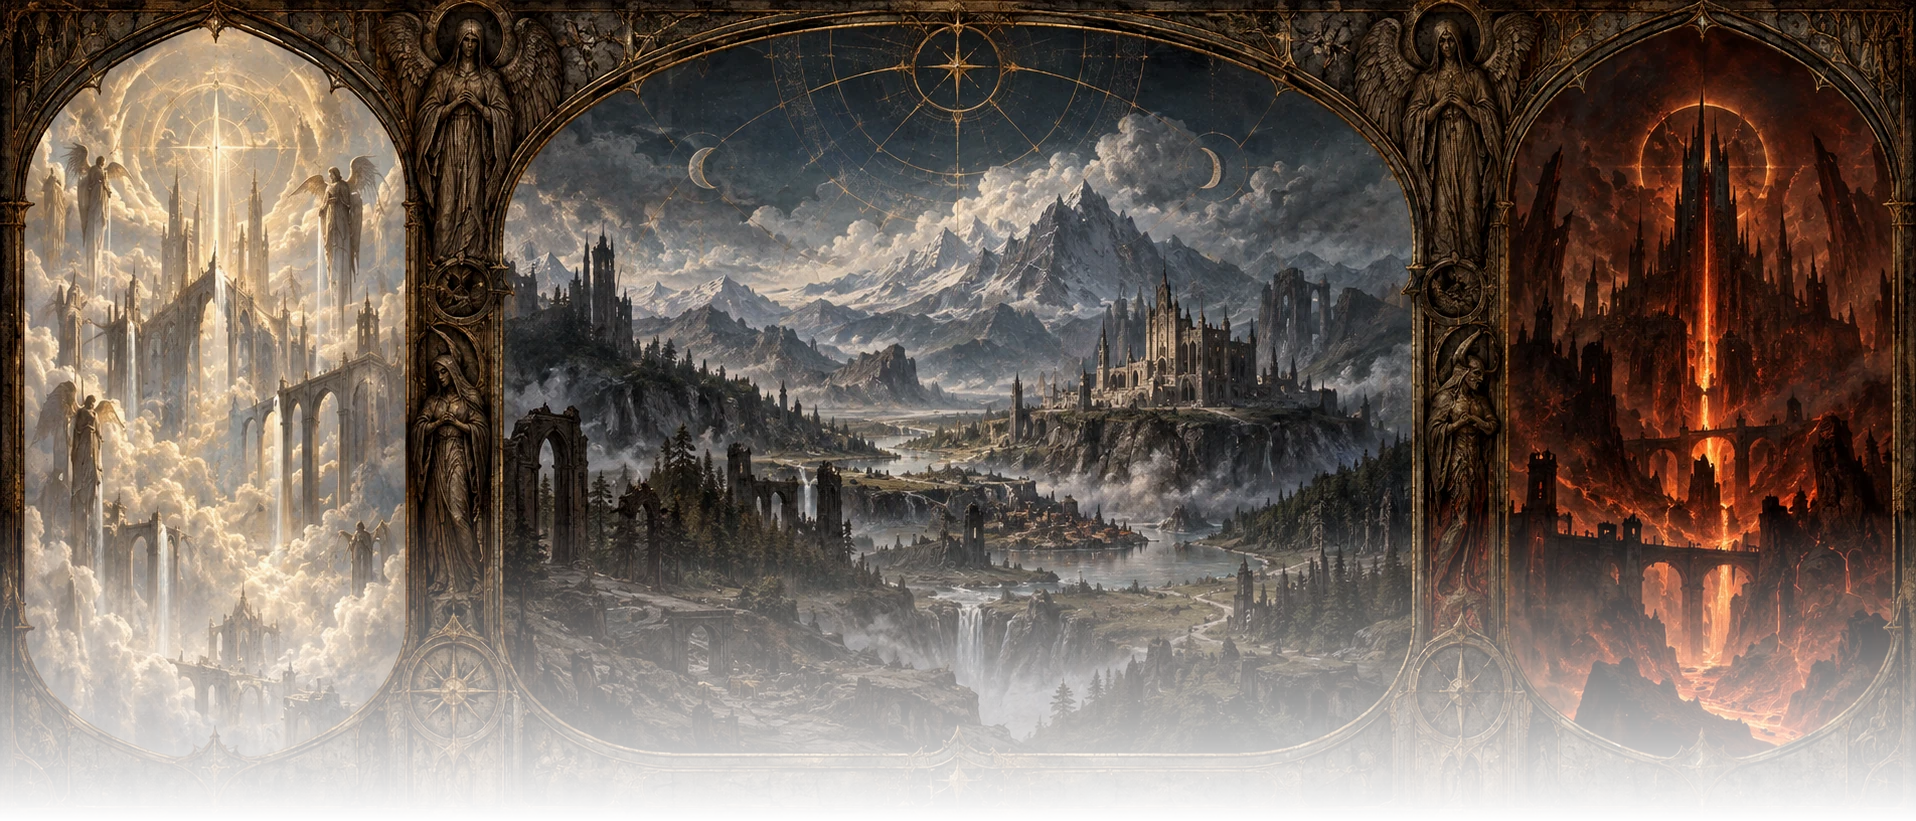
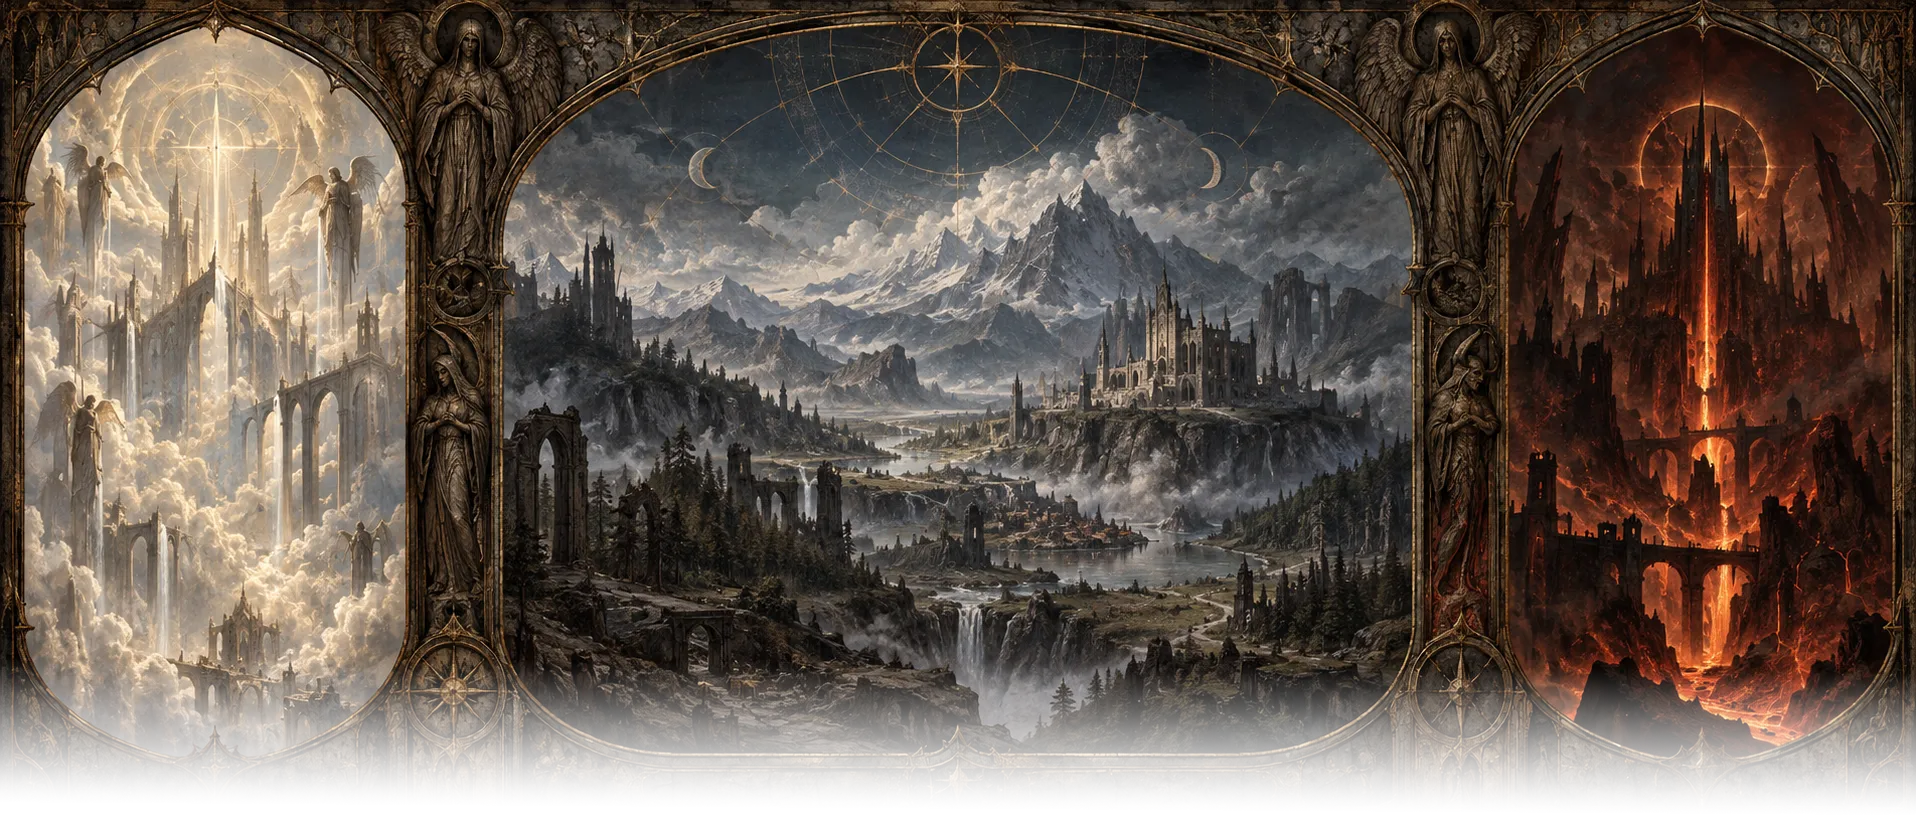
himmel/hoelle/sanctuary: Hero-Aufbau der Regionsseiten übernehmen
Himmel, Hölle und Sanktuario nutzten bislang eine eigene, uneinheitliche
Hero-Logik (starre Box-Höhe bei Himmel, eine Box/Bild-Entkopplung über ein
zusätzliches ::before bei Hölle/Sanktuario). Jetzt 1:1 der Aufbau der
Regionsseiten (welt.css):

- Bild direkt als background auf .region-hero, keine Entkopplung mehr.
- min-height wächst auf breiten Viewports mit (Xvw = 100vw/Bild-
  Seitenverhältnis: 42.85vw bei Himmel/Sanktuario, 41.7vw bei Hölle),
  gedeckelt bei 88vh — Content wandert dabei bewusst mit nach unten,
  identisches, korrektes Verhalten wie auf den Regionsseiten (vorheriger
  Eindruck, das sei ein Bug, war ein Irrtum).
- .region-hero::after mit horizontaler Linksverdunklung für Textlesbarkeit
  statt vertikalem Verlauf — ersetzt den Sanktuario-Sonderweg mit
  zusätzlichem Scrim-Layer, der ohnehin nicht sauber funktionierte.

Changed region(s): [[0.0, 0.6395, 1.0, 0.944]]

diff --git a/css/hoelle.css b/css/hoelle.css
@@ -34,34 +34,18 @@ button { font:inherit; }
 .eyebrow { display:flex; align-items:center; gap:8px; color:var(--gold); font:700 .72rem/1 system-ui,sans-serif; text-transform:uppercase; letter-spacing:.16em; }
 h1,h2,h3 { margin:0; font-family:'Marcellus',Georgia,serif; font-weight:400; line-height:1.05; text-transform:uppercase; letter-spacing:.02em; filter:url('../img/grunge-filter.svg#grunge'); }
 
-/* ─── Hero (identische Sprache wie die Hohen Himmel) ──────────── */
+/* ─── Hero (identischer Aufbau wie die Regionsseiten/welt.css) ──── */
 /* Bild als background-image statt <img> + filter, Fade direkt im Alphakanal
    von hell-header-final.webp gebacken — siehe himmel-v2.css für die
    ausführliche Begründung (Artefakt-Kante bei <img>+position:absolute+filter,
    background-position:bottom statt eines %-Werts wegen cover-Zuschnitt).
-   Abstände/Aufbau wie himmel-v2.css, nur die Basis-Höhe bewusst höher
-   (825px statt 720px). Content-Padding starr bei 64/24/56px. Das Bild darf
-   diese Werte nicht mehr verschieben — Layout-Höhe und Bild-Crop-Fix sind
-   deshalb entkoppelt: das Hintergrundbild sitzt auf einem eigenen ::before,
-   das unabhängig von der Box-Höhe wachsen kann (s.u.), statt direkt als
-   background auf .region-hero, dessen Höhe sonst den Content mitschieben
-   würde. */
-.region-hero { position:relative; min-height:min(825px,88vh); display:flex; align-items:flex-end; }
-/* Bild-Layer statt background auf .region-hero direkt: unten an der Box
-   verankert (bottom:0), aber mit eigener, unabhängig wachsender Höhe — bei
-   sehr breiten Viewports reicht sie über die 825px-Box nach oben hinaus. Ohne
-   overflow:hidden auf .region-hero wird dieser Überstand nicht abgeschnitten,
-   sondern verschwindet hinter der Sticky-Nav (z-index:20 vs. hier 0), die
-   ihn deckend überlagert — der obere Bildrand wird dadurch nie sichtbar
-   gekappt, ohne dass die Box selbst wächst und Content/Folgeabstand
-   mitzieht. 41.7vw = 100vw/2.4, exakt das Seitenverhältnis von
-   hell-header-final.webp — rechnerisch dadurch kein vertikaler Zuschnitt
-   bis zum 88vh-Deckel. */
-.region-hero::before {
-  content:""; position:absolute; z-index:0; left:0; right:0; bottom:0;
-  height:min(max(825px,41.7vw),88vh);
-  background:url('../img/hell-header-final.webp') center bottom/cover no-repeat;
-}
+   Basis-Höhe bewusst höher als bei Himmel (825px statt 720px). Höhe wächst
+   auf breiten Viewports mit (41.7vw = 100vw/2.4, dem Seitenverhältnis von
+   hell-header-final.webp) — Content wandert dabei bewusst mit nach unten,
+   identisches Verhalten wie auf den Regionsseiten. */
+.region-hero { position:relative; min-height:min(max(825px,41.7vw),88vh); display:flex; align-items:flex-end; overflow:hidden;
+  background:url('../img/hell-header-final.webp') center bottom/cover no-repeat; }
+.region-hero::after { content:""; position:absolute; inset:0; background:linear-gradient(90deg,rgba(7,5,4,.6),transparent 55%); }
 .region-hero-content { position:relative; z-index:1; max-width:1200px; margin:0 auto; padding:64px 24px 56px; width:100%; }
 .region-hero h1 { max-width:820px; margin:16px 0 20px; font-size:clamp(2.6rem,6vw,4.4rem); text-shadow:0 3px 25px #000; }
 .region-hero .lead { max-width:640px; margin:0; color:#d4c8bb; font-size:1.1rem; line-height:1.7; text-shadow:0 2px 12px #000; }
@@ -207,7 +191,7 @@ h1,h2,h3 { margin:0; font-family:'Marcellus',Georgia,serif; font-weight:400; lin
    ist weiterhin ein volles Rechteck-Renderbild; ihr eigener Maskenverlauf
    gleicht die Silhouette beim Hover-Crossfade an die freigestellte
    Zeichnung an, statt hart als Rechteck aufzupoppen. */
-.uebel-entry-img.sketch { opacity:.96; transition:opacity .6s ease; }
+.uebel-entry-img.sketch { opacity:.46; transition:opacity .6s ease; }
 .uebel-entry-img.color {
   position:absolute; inset:0; opacity:0; filter:saturate(.95) contrast(1.05) brightness(.96); transition:opacity .6s ease;
   -webkit-mask-image: radial-gradient(ellipse 62% 62% at 50% 50%, #000 40%, transparent 100%);

diff --git a/css/himmel-v2.css b/css/himmel-v2.css
@@ -38,24 +38,28 @@ button { font:inherit; }
 
 h1,h2,h3 { margin:0; font-family:'Marcellus',Georgia,serif; font-weight:400; line-height:1.05; text-transform:uppercase; letter-spacing:.02em; filter:url('../img/grunge-filter.svg#grunge'); }
 
-/* ─── Hero (identische Sprache wie die Regionsseiten) ─────────── */
+/* ─── Hero (identischer Aufbau wie die Regionsseiten/welt.css) ──── */
 /* Bild als background-image statt <img> mit position:absolute + filter:
    letzteres erzeugte in manchen Browsern eine sichtbare Artefakt-Kante am
    Übergang der Alpha-Fade (Compositing-Layer der gefilterten, teiltransparenten
    Ebene). Farbkorrektur (saturate/contrast/brightness) ist stattdessen direkt
-   in heaven-header-final.webp gebacken. */
-/* background-position-y:bottom statt 38% — bei breiten Viewports wird die
-   Bildbreite zum bindenden Faktor für background-size:cover, wodurch das Bild
-   stärker in der Höhe skaliert und mehr vom Rand abgeschnitten wird. Bei
-   "38%" verschwand dabei ein großer Teil der unteren Alpha-Fade-Zone; mit
-   "bottom" bleibt der untere Bildrand (= vollständig transparent) immer
-   sichtbar, es wird stattdessen oben (Himmel/Wolken) mehr abgeschnitten. */
-.region-hero { position:relative; min-height:min(720px,88vh); display:flex; align-items:flex-end; overflow:hidden;
+   in heaven-header-final.webp gebacken. background-position:center bottom
+   hält den unteren, vollständig transparenten Bildrand bei jeder
+   Viewport-Breite exakt an der Hero-Unterkante. */
+/* Höhe wächst auf breiten Viewports mit (42.85vw = 100vw/2.3337, dem
+   Seitenverhältnis von heaven-header-final.webp), statt starr bei 720px zu
+   bleiben: bei fixer Höhe wird der Container bei breiten Fenstern immer viel
+   breiter als das Foto, wodurch background-size:cover immer mehr vom oberen
+   Bildinhalt wegschneiden muss. 88vh deckelt die Höhe weiterhin auf
+   kurzen/breiten Viewports. Der Content wandert dadurch bei breiten
+   Viewports mit nach unten — identisches, bewusstes Verhalten wie auf den
+   Regionsseiten. */
+.region-hero { position:relative; min-height:min(max(720px,42.85vw),88vh); display:flex; align-items:flex-end; overflow:hidden;
   background:url('../img/heaven-header-final.webp') center bottom/cover no-repeat; }
-/* Kein separater Fade-Layer mehr nötig: heaven-header.webp blendet im Bild
-   selbst (Alphakanal) am unteren Rand nach transparent aus. Dadurch scheint
-   exakt dieselbe Body-Textur-Instanz durch statt einer zweiten, unabhängig
-   gekachelten Kopie — es kann also gar keine Phasenkante mehr entstehen. */
+/* Nur horizontale Linksverdunklung für Textlesbarkeit, kein vertikaler
+   Verlauf — der würde sich mit der bild-eigenen Alpha-Fade-Kurve am unteren
+   Rand überlagern und dort eine sichtbare Ringkante erzeugen. */
+.region-hero::after { content:""; position:absolute; inset:0; background:linear-gradient(90deg,rgba(7,5,4,.6),transparent 55%); }
 .region-hero-content { position:relative; z-index:1; max-width:1200px; margin:0 auto; padding:64px 24px 56px; width:100%; }
 .eyebrow { display:flex; align-items:center; gap:8px; color:var(--gold); font:700 .72rem/1 system-ui,sans-serif; text-transform:uppercase; letter-spacing:.16em; }
 .region-hero h1 { max-width:820px; margin:16px 0 20px; font-size:clamp(2.6rem,6vw,4.4rem); text-shadow:0 3px 25px #000; }

diff --git a/css/sanctuary.css b/css/sanctuary.css
@@ -29,19 +29,15 @@ button { font:inherit; }
 .eyebrow { display:flex; align-items:center; gap:8px; color:var(--gold); font:700 .72rem/1 system-ui,sans-serif; text-transform:uppercase; letter-spacing:.16em; }
 h1,h2,h3 { margin:0; font-family:'Marcellus',Georgia,serif; font-weight:400; line-height:1.05; text-transform:uppercase; letter-spacing:.02em; filter:url('../img/grunge-filter.svg#grunge'); }
 
-/* ─── Hero (identische Sprache wie die Hohen Himmel/Hölle) ──────── */
-/* Bild als background-image auf einem eigenen ::before statt direkt auf
-   .region-hero: Layout-Höhe der Box (starr, wie bei Himmel/Hölle) und
-   Bild-Crop-Vermeidung sind dadurch entkoppelt — das Bild darf bei breiten
-   Viewports unabhängig wachsen, ohne Content/Folgeabstand zu verschieben
-   (siehe hoelle.css für die ausführliche Herleitung). 42.85vw = 100vw/2.3337,
-   exakt das Seitenverhältnis von sanctuary-header-final.webp. */
-.region-hero { position:relative; min-height:min(720px,88vh); display:flex; align-items:flex-end; }
-.region-hero::before {
-  content:""; position:absolute; z-index:0; left:0; right:0; bottom:0;
-  height:min(max(720px,42.85vw),88vh);
-  background:url('../img/sanctuary-header-final.webp') center bottom/cover no-repeat;
-}
+/* ─── Hero (identischer Aufbau wie die Regionsseiten/welt.css) ──── */
+/* Bild als background-image direkt auf .region-hero, Fade im Alphakanal
+   von sanctuary-header-final.webp gebacken. Höhe wächst auf breiten
+   Viewports mit (42.85vw = 100vw/2.3337, dem Seitenverhältnis des Bilds)
+   — Content wandert dabei bewusst mit nach unten, identisches Verhalten
+   wie auf den Regionsseiten. */
+.region-hero { position:relative; min-height:min(max(720px,42.85vw),88vh); display:flex; align-items:flex-end; overflow:hidden;
+  background:url('../img/sanctuary-header-final.webp') center bottom/cover no-repeat; }
+.region-hero::after { content:""; position:absolute; inset:0; background:linear-gradient(90deg,rgba(7,5,4,.6),transparent 55%); }
 .region-hero-content { position:relative; z-index:1; max-width:1200px; margin:0 auto; padding:64px 24px 56px; width:100%; }
 .region-hero h1 { max-width:820px; margin:16px 0 20px; font-size:clamp(2.6rem,6vw,4.6rem); text-shadow:0 3px 25px #000; }
 .region-hero .lead { max-width:700px; margin:0; color:#d4c2b6; font-size:1.08rem; line-height:1.7; text-shadow:0 2px 12px #000; }
